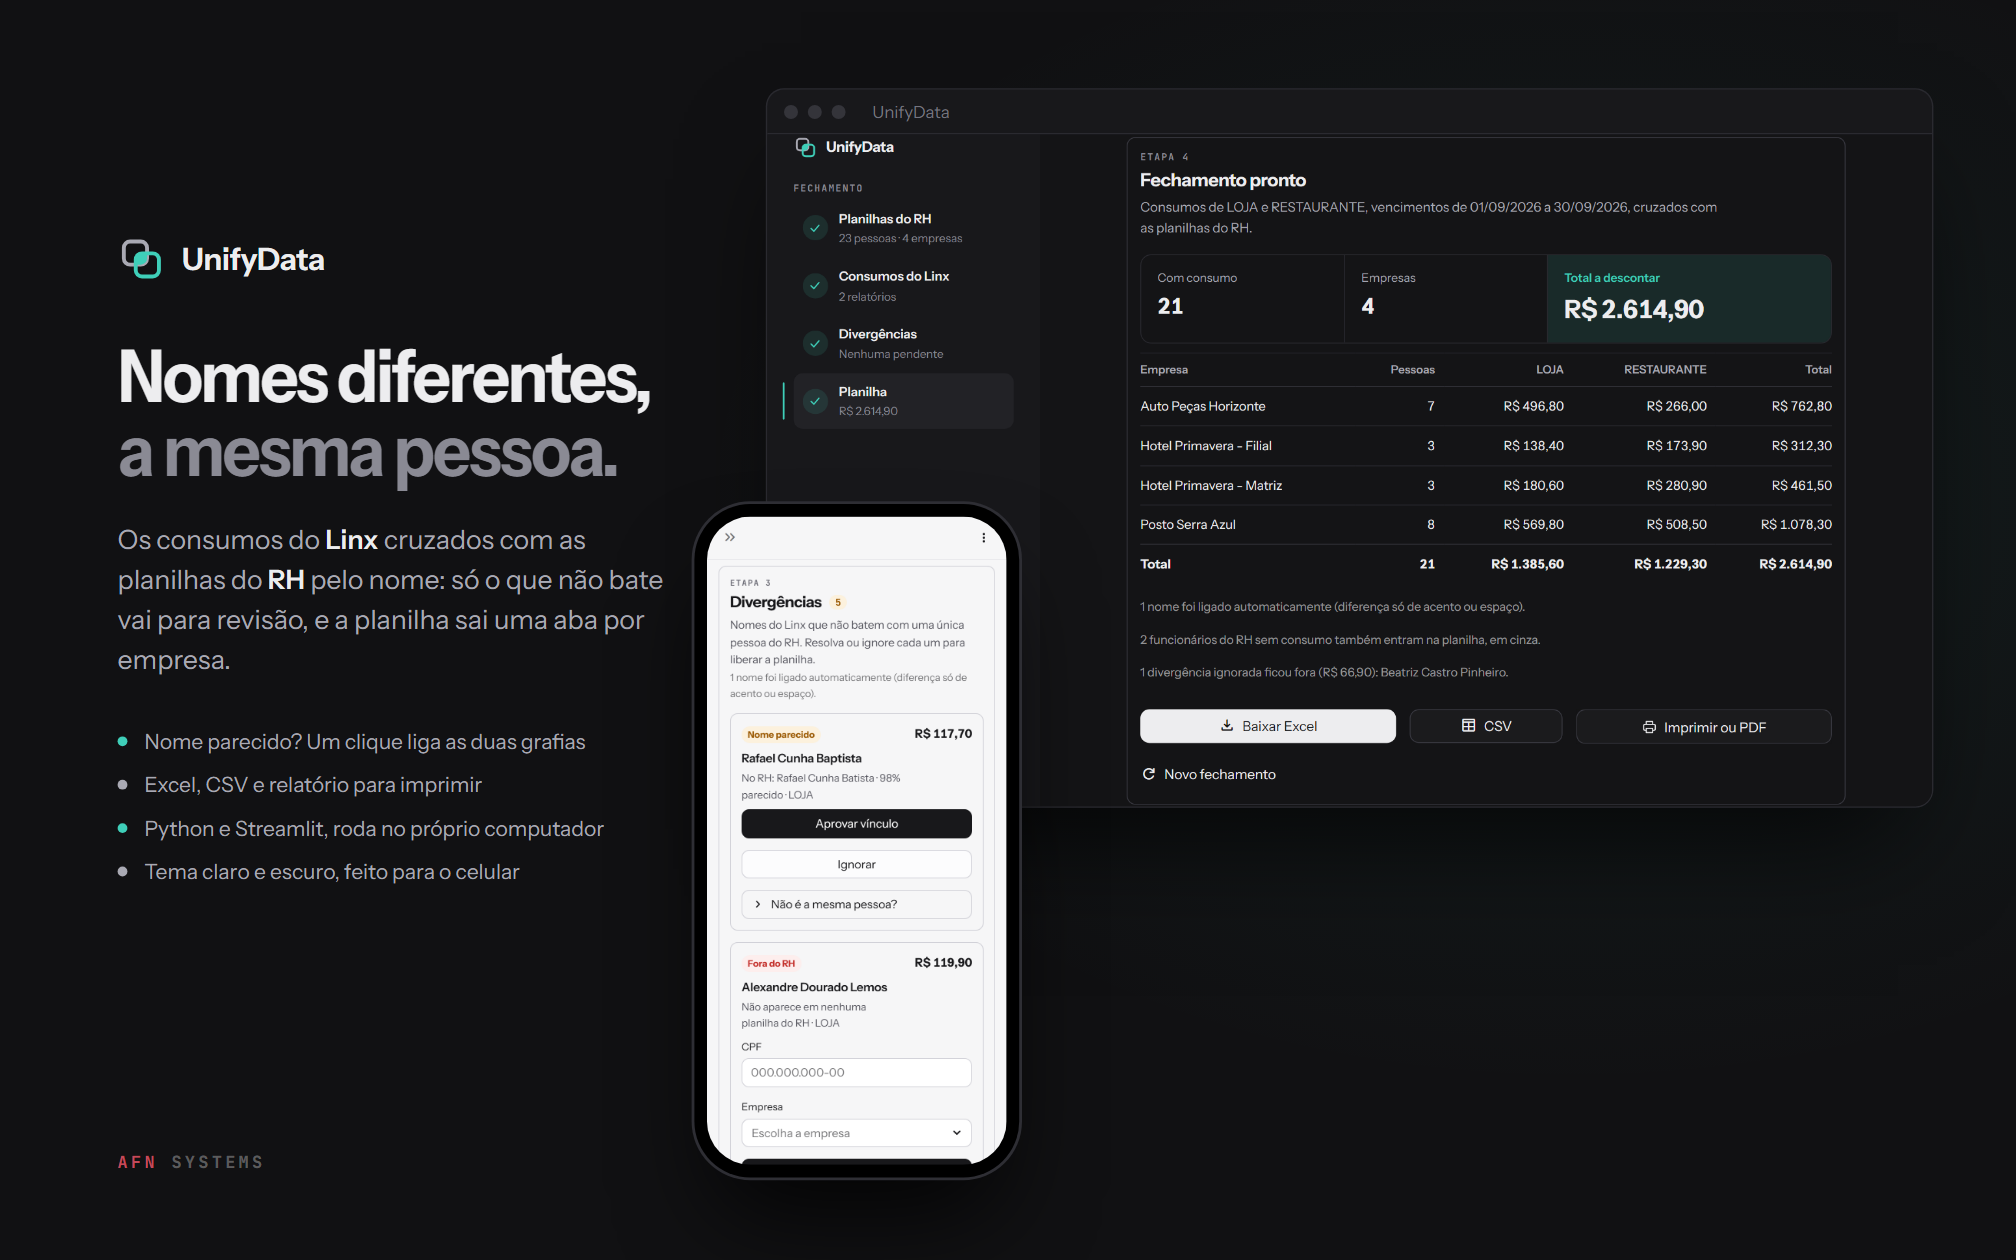
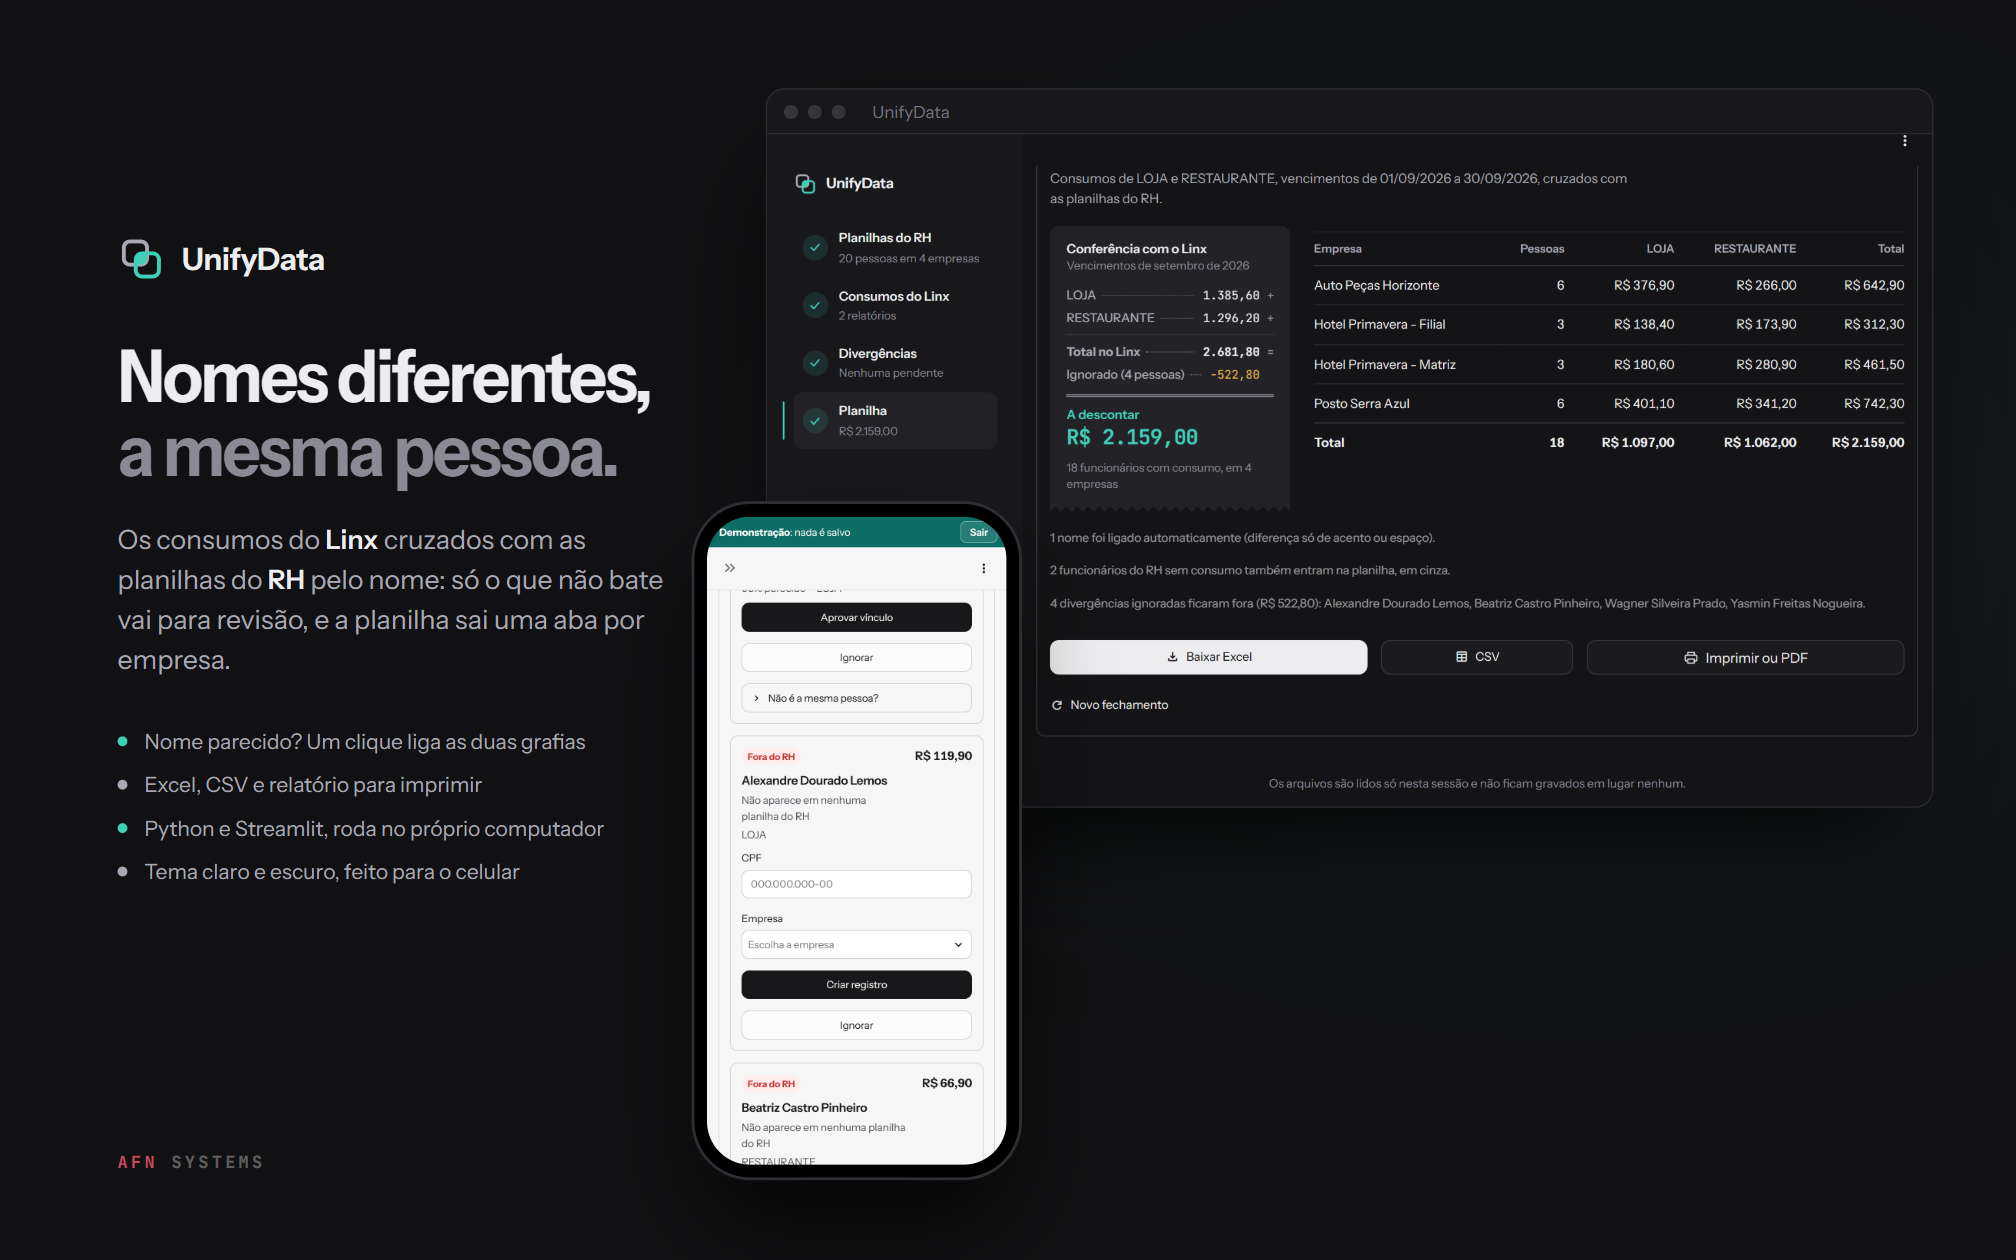
Capturas do README, capa e prévia para redes com o visual novo; CHANGELOG
Capturas refeitas no modo de exemplo (1280×800 a 1,4x e celular 390×844
a 2x). A imagem das saídas mostra o relatório, o Excel e o CSV gerados
pelo núcleo com os arquivos de exemplo, com as marcas de dados fictícios.

diff --git a/CHANGELOG.md b/CHANGELOG.md
@@ -1,0 +1,43 @@
+# Changelog
+
+## 1.1.0 (2026-10-13)
+
+### Closing
+- The result opens with a reconciliation tape, like an adding-machine
+  roll: each store's total in Linx (kept before any card is ignored),
+  their sum, what was ignored and what goes to payroll. The sum matches
+  the grand total of the Linx reports.
+- Each step's number is part of its title.
+- On wide screens (1200 px or more) the column is wider and the company
+  table sits beside the tape.
+
+### Demo
+- The sample-mode banner sits at the top of the page, above the sidebar
+  and Streamlit's bar, in the brand color.
+
+### Outputs
+- Files are named after the month of the due dates
+  (`Fechamento_UnifyData_2026-09.xlsx`).
+- In the sample mode, the Excel, the CSV and the report say the data is
+  made up, and the file names end in `_DEMO`.
+- The report and the Excel header use the brand teal instead of burgundy,
+  and the report summary shows the same reconciliation as the tape.
+
+### Privacy and security
+- The fonts are served by the app itself (`static/fonts`): nothing is
+  fetched from Google Fonts.
+- A file that cannot be read gets a plain notice; the technical detail
+  goes to the console.
+
+### Project
+- CI runs the tests and compiles the app on Python 3.10, 3.12 and 3.14.
+  Tests: 13 → 17 (unreadable file, file names, the demo Excel and the
+  reconciliation).
+- The README no longer states what could not be checked.
+
+## 1.0.0 (2026-10-02)
+
+- New interface: the four steps with a sidebar, light and dark themes, a
+  phone layout and a sample mode.
+- Name matching with review cards; Excel, CSV and a printable report; the
+  rules in `nucleo.py`, tested with `unittest`.

diff --git a/README.pt-BR.md b/README.pt-BR.md
@@ -211,6 +211,7 @@ python -m unittest discover -s tests
 unifydata.py            o app Streamlit: etapas, cartões de revisão, resultado e exportações
 nucleo.py               regras puras: leitura, cruzamento de nomes, consolidação, Excel, CSV
 requirements.txt        dependências
+CHANGELOG.md            o que mudou em cada versão (em inglês)
 Iniciar_UnifyData.bat   atalho para Windows
 .streamlit/config.toml  temas claro e escuro, fontes, barra de ferramentas, telemetria desligada
 assets/favicon.png      a marca do UnifyData

diff --git a/README.md b/README.md
@@ -214,6 +214,7 @@ python -m unittest discover -s tests
 unifydata.py            the Streamlit app: steps, review cards, result and exports
 nucleo.py               pure rules: reading, name matching, consolidation, Excel, CSV
 requirements.txt        dependencies
+CHANGELOG.md            what changed in each version
 Iniciar_UnifyData.bat   Windows launcher
 .streamlit/config.toml  light and dark themes, fonts, toolbar, telemetry off
 assets/favicon.png      the UnifyData mark
